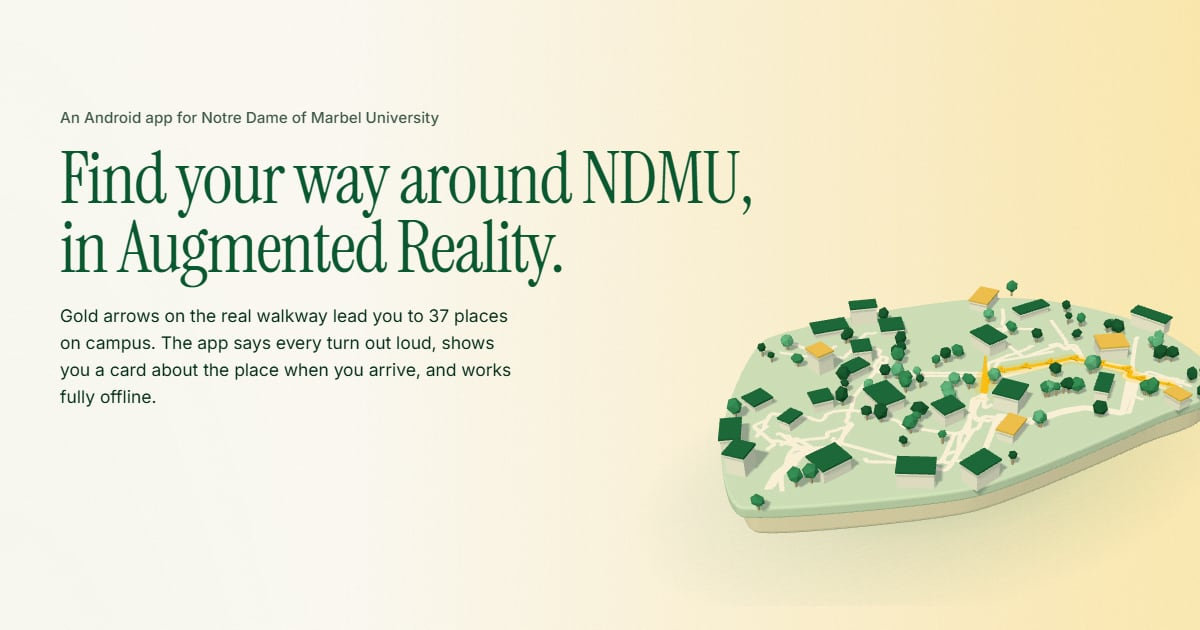
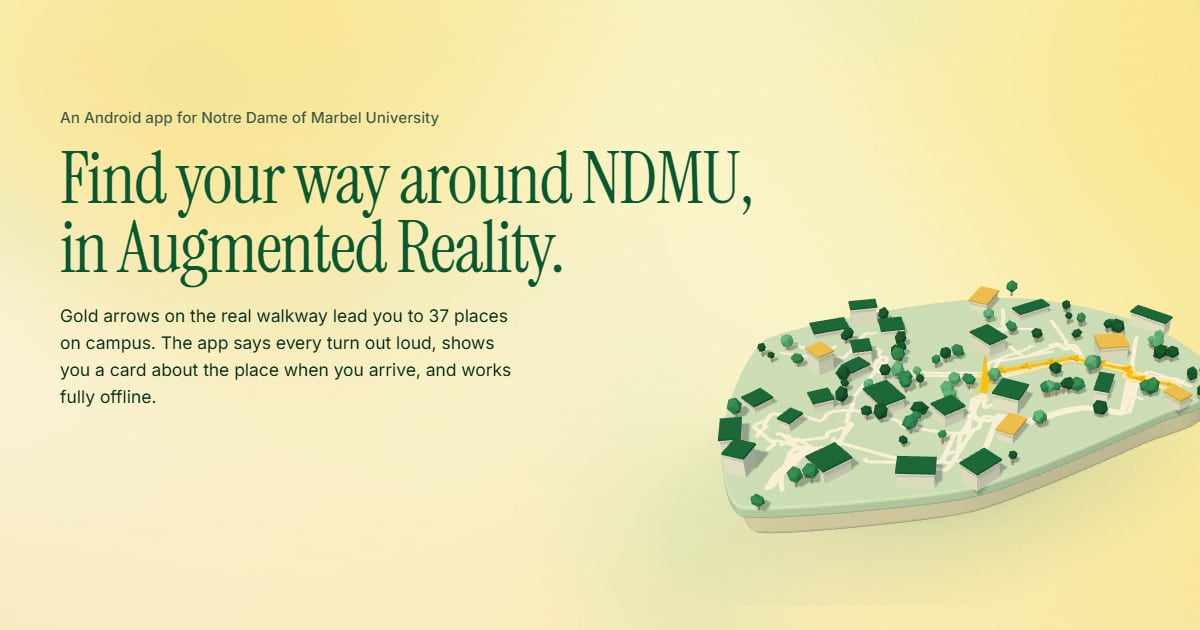
Fix clipped descenders in headlines and the hidden gold route
- Headline line masks now leave room below and above the line, so g, p
  and y are no longer cut off by the tight line height
- The page background moved from <body> to the root element. On <body>
  it painted over everything at z-index -1, which hid the gold route
  and, as it turns out, the living gradient canvas as well
- The gradient is toned down now that it actually shows

diff --git a/src/styles/global.css b/src/styles/global.css
@@ -52,7 +52,13 @@
 
 /* Base colour, background and font rules are deliberately NOT in a layer, so nothing can override them by accident. */
 :root {
-  background: var(--color-paper);
+  /* The plain-CSS version of the living gradient: what shows before, and without, the canvas. */
+  background-color: var(--color-paper);
+  background-image:
+    radial-gradient(120% 60% at 100% 0%, rgb(255 194 14 / 0.30), transparent 60%),
+    radial-gradient(90% 50% at 0% 30%, rgb(95 211 149 / 0.16), transparent 62%),
+    radial-gradient(110% 55% at 100% 62%, rgb(255 215 94 / 0.24), transparent 60%),
+    radial-gradient(90% 50% at 0% 100%, rgb(10 90 49 / 0.10), transparent 60%);
   color: var(--color-ink);
   color-scheme: light;
   -webkit-text-size-adjust: 100%;
@@ -70,13 +76,9 @@ html body {
   overflow-x: clip;
   text-rendering: optimizeLegibility;
   -webkit-font-smoothing: antialiased;
-  /* The still version of the living gradient: what you see without WebGL, on weak devices and with reduced motion. */
-  background-color: var(--color-paper);
-  background-image:
-    radial-gradient(120% 60% at 100% 0%, rgb(255 194 14 / 0.30), transparent 60%),
-    radial-gradient(90% 50% at 0% 30%, rgb(95 211 149 / 0.16), transparent 62%),
-    radial-gradient(110% 55% at 100% 62%, rgb(255 215 94 / 0.24), transparent 60%),
-    radial-gradient(90% 50% at 0% 100%, rgb(10 90 49 / 0.10), transparent 60%);
+  /* No background here: the gradient canvas and the gold route sit behind the page (z-index -1), and a
+     background on <body> would paint over both. The page colour lives on the root element above. */
+  background: none;
 }
 html.defense { font-size: 112.5%; }
 html.defense, html.defense * { cursor: none !important; }
@@ -171,7 +173,9 @@ html.defense, html.defense * { cursor: none !important; }
   .cap-note { font-size: var(--fs-small); color: var(--color-mute); }
 
   /* ---------- reveals: content is visible by default; JS hides only what is below the fold ---------- */
-  .line-mask { overflow: clip; padding-bottom: 0.12em; margin-bottom: -0.12em; }
+  /* SplitText wraps each headline line in a clipping mask. The mask gets room below and above the line,
+     so descenders (g, p, y) and tall capitals are never cut off by the tight line height. */
+  .split-line-mask { padding-block: 0.08em 0.22em; margin-block: -0.08em -0.22em; }
 
   /* ---------- the app's own card look (arrival card, place card) ---------- */
   .app-card {

diff --git a/src/scripts/gradient.js b/src/scripts/gradient.js
@@ -182,8 +182,9 @@ export function initGradient() {
     const draw = () => {
       gl.uniform2f(uni.uRes, canvas.width, canvas.height);
       gl.uniform1f(uni.uTime, state.t);
-      gl.uniform1f(uni.uGold, clamp(base.gold_ * state.g, 0, 0.95));
-      gl.uniform1f(uni.uGreen, clamp(base.green * state.m, 0, 0.7));
+      // kept gentle: the page should read as white and cream first, with gold and green drifting through it
+      gl.uniform1f(uni.uGold, clamp(base.gold_ * state.g * 0.55, 0, 0.6));
+      gl.uniform1f(uni.uGreen, clamp(base.green * state.m * 0.7, 0, 0.5));
       gl.uniform1f(uni.uDeep, clamp(base.deep * state.m, 0, 0.4));
       gl.uniform1f(uni.uZoom, state.z);
       gl.uniform1f(uni.uBloom, state.bloom);
